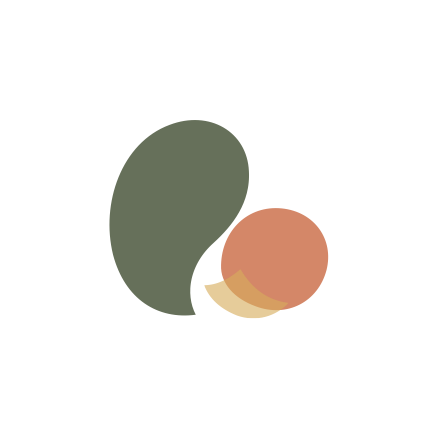
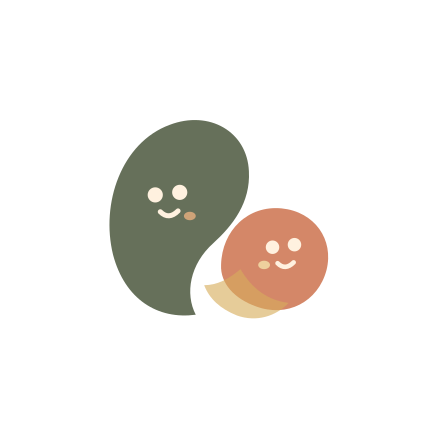
Make the Pebble Pair warm and cute

Changed region(s): [[0.331, 0.4213, 0.4514, 0.5116], [0.6019, 0.5417, 0.6921, 0.6319]]

diff --git a/mobile/src/components/pebble-pair.tsx b/mobile/src/components/pebble-pair.tsx
@@ -1,14 +1,48 @@
 import React, { useEffect, useRef } from 'react';
 import { Animated, Easing, Modal, StyleSheet, Text, View } from 'react-native';
+import Svg, { Circle, Ellipse, Path } from 'react-native-svg';
 import { colors, shadow, type } from '@/lib/theme';
 
+function PebbleFace({ width, height, looks, cheek }: { width: number; height: number; looks: 'left' | 'right'; cheek: string }) {
+  const eyeRadius = Math.max(1.55, width * .047);
+  const shift = looks === 'right' ? width * .03 : -width * .03;
+  const smileStart = width * .39 + shift;
+  const smileEnd = width * .62 + shift;
+  const smileY = height * .58;
+
+  return <Svg pointerEvents="none" width={width} height={height} style={styles.face}>
+    <Circle cx={width * .31 + shift} cy={height * .38} r={eyeRadius} fill={colors.expression} />
+    <Circle cx={width * .57 + shift} cy={height * .36} r={eyeRadius} fill={colors.expression} />
+    <Path
+      d={`M ${smileStart} ${smileY} Q ${width * .51 + shift} ${height * .68} ${smileEnd} ${smileY - height * .018}`}
+      stroke={colors.expression}
+      strokeWidth={Math.max(1.15, width * .028)}
+      strokeLinecap="round"
+      fill="none"
+    />
+    <Ellipse
+      cx={looks === 'right' ? width * .77 : width * .16}
+      cy={height * .58}
+      rx={width * .07}
+      ry={height * .038}
+      fill={cheek}
+      opacity={.82}
+    />
+  </Svg>;
+}
+
 export function PebblePair({ size = 52 }: { size?: number }) {
+  const largeWidth = size * .63;
+  const largeHeight = size * .64;
+  const smallWidth = size * .45;
+  const smallHeight = size * .46;
+
   return <View accessibilityElementsHidden importantForAccessibility="no-hide-descendants" style={[styles.pair, { width: size, height: size * .78 }]}>
-    <View style={[styles.large, { width: size * .62, height: size * .7, borderRadius: size * .31 }]}>
-      <View style={[styles.eye, { left: size * .19 }]} /><View style={[styles.eye, { left: size * .36 }]} />
+    <View style={[styles.large, { width: largeWidth, height: largeHeight, borderRadius: size * .32 }]}>
+      <PebbleFace width={largeWidth} height={largeHeight} looks="right" cheek={colors.apricot} />
     </View>
-    <View style={[styles.small, { width: size * .43, height: size * .5, borderRadius: size * .22 }]}>
-      <View style={[styles.eye, { left: size * .12 }]} /><View style={[styles.eye, { left: size * .25 }]} />
+    <View style={[styles.small, { width: smallWidth, height: smallHeight, borderRadius: size * .24 }]}>
+      <PebbleFace width={smallWidth} height={smallHeight} looks="left" cheek={colors.butter} />
     </View>
   </View>;
 }
@@ -30,8 +64,12 @@ export function MemorySavedCelebration({ visible, friendName }: { visible: boole
       <Animated.View style={[styles.halo, { opacity: arrival, transform: [{ scale: arrival.interpolate({ inputRange: [0, 1], outputRange: [.5, 1] }) }] }]} />
       <Animated.View style={[styles.celebration, { opacity: arrival, transform: [{ translateY: arrival.interpolate({ inputRange: [0, 1], outputRange: [28, 0] }) }, { scale: arrival.interpolate({ inputRange: [0, 1], outputRange: [.94, 1] }) }] }]}>
         <View style={styles.reunion}>
-          <Animated.View style={{ transform: [{ translateX: reunion.interpolate({ inputRange: [0, 1], outputRange: [-18, 0] }) }, { rotate: '-7deg' }] }}><View style={styles.celebrateLarge}><View style={[styles.eye, { left: 30 }]} /><View style={[styles.eye, { left: 52 }]} /></View></Animated.View>
-          <Animated.View style={{ marginLeft: -15, marginTop: 28, transform: [{ translateX: reunion.interpolate({ inputRange: [0, 1], outputRange: [54, 0] }) }, { translateY: reunion.interpolate({ inputRange: [0, 1], outputRange: [-42, 0] }) }, { rotate: '8deg' }] }}><View style={styles.celebrateSmall}><View style={[styles.eye, { left: 18 }]} /><View style={[styles.eye, { left: 32 }]} /></View></Animated.View>
+          <Animated.View style={{ transform: [{ translateX: reunion.interpolate({ inputRange: [0, 1], outputRange: [-18, 0] }) }, { rotate: '-7deg' }] }}>
+            <View style={styles.celebrateLarge}><PebbleFace width={96} height={94} looks="right" cheek={colors.apricot} /></View>
+          </Animated.View>
+          <Animated.View style={{ marginLeft: -15, marginTop: 30, transform: [{ translateX: reunion.interpolate({ inputRange: [0, 1], outputRange: [54, 0] }) }, { translateY: reunion.interpolate({ inputRange: [0, 1], outputRange: [-42, 0] }) }, { rotate: '8deg' }] }}>
+            <View style={styles.celebrateSmall}><PebbleFace width={66} height={64} looks="left" cheek={colors.butter} /></View>
+          </Animated.View>
         </View>
         <Text style={styles.savedTitle}>Memory tucked in.</Text>
         <Text style={styles.savedBody}>{friendName ? `The Pebble Pair brought this one home with ${friendName}.` : 'The Pebble Pair brought this one safely home.'}</Text>
@@ -44,13 +82,13 @@ const styles = StyleSheet.create({
   pair: { position: 'relative' },
   large: { position: 'absolute', left: 0, bottom: 0, overflow: 'hidden', backgroundColor: colors.moss, transform: [{ rotate: '-7deg' }] },
   small: { position: 'absolute', right: 0, bottom: 1, overflow: 'hidden', backgroundColor: colors.terracotta, transform: [{ rotate: '8deg' }] },
-  eye: { position: 'absolute', top: '41%', width: 3.5, height: 5, borderRadius: 3, backgroundColor: colors.white },
+  face: { position: 'absolute', left: 0, top: 0 },
   overlay: { flex: 1, alignItems: 'center', justifyContent: 'center', padding: 24, backgroundColor: 'rgba(57,66,56,.25)' },
   halo: { position: 'absolute', width: 330, height: 330, borderRadius: 165, backgroundColor: 'rgba(232,176,128,.32)' },
   celebration: { width: '100%', maxWidth: 380, alignItems: 'center', padding: 24, borderRadius: 26, backgroundColor: colors.white, ...shadow },
   reunion: { height: 118, flexDirection: 'row', alignItems: 'center', justifyContent: 'center' },
-  celebrateLarge: { width: 92, height: 106, overflow: 'hidden', borderRadius: 46, backgroundColor: colors.moss },
-  celebrateSmall: { width: 64, height: 74, overflow: 'hidden', borderRadius: 32, backgroundColor: colors.terracotta },
+  celebrateLarge: { width: 96, height: 94, overflow: 'hidden', borderRadius: 48, backgroundColor: colors.moss },
+  celebrateSmall: { width: 66, height: 64, overflow: 'hidden', borderRadius: 33, backgroundColor: colors.terracotta },
   savedTitle: { marginTop: 8, fontFamily: type.heavy, color: colors.mossDeep, fontSize: 22 },
   savedBody: { maxWidth: 270, marginTop: 6, fontFamily: type.regular, color: colors.muted, fontSize: 14, lineHeight: 20, textAlign: 'center' },
 });

diff --git a/src/app/globals.css b/src/app/globals.css
@@ -154,6 +154,7 @@
   --amika-ink-soft: #596052;
   --amika-paper: #f7eedf;
   --amika-white: #fffaf2;
+  --amika-expression: #fff1df;
   --amika-violet: #e8b080;
   --amika-violet-deep: #59674d;
   --amika-citrus: #d48768;
@@ -2611,9 +2612,10 @@ body:has(.app-rail) > main { margin-left: 220px; }
 .pebble-pair__large {
   left: 3%;
   bottom: 3%;
-  width: 64%;
-  height: 86%;
-  border-radius: 58% 42% 50% 46% / 66% 52% 48% 34%;
+  width: 65%;
+  height: 76%;
+  overflow: hidden;
+  border-radius: 54% 46% 48% 52% / 60% 54% 46% 40%;
   background: var(--pebble-large);
   transform: rotate(-7deg);
 }
@@ -2621,12 +2623,82 @@ body:has(.app-rail) > main { margin-left: 220px; }
 .pebble-pair__small {
   right: 2%;
   bottom: 3%;
-  width: 43%;
-  height: 54%;
-  border-radius: 52% 48% 46% 54% / 58% 44% 56% 42%;
+  width: 46%;
+  height: 55%;
+  overflow: hidden;
+  border-radius: 51% 49% 47% 53% / 55% 48% 52% 45%;
   background: var(--pebble-small);
   transform: rotate(8deg);
 }
+
+.pebble-pair__face {
+  position: absolute;
+  display: block;
+  color: var(--amika-expression);
+}
+
+.pebble-pair__face--large {
+  top: 34%;
+  left: 24%;
+  width: 48%;
+  height: 34%;
+}
+
+.pebble-pair__face--small {
+  top: 31%;
+  left: 18%;
+  width: 58%;
+  height: 37%;
+}
+
+.pebble-pair__eye {
+  position: absolute;
+  top: 0;
+  display: block;
+  width: 21%;
+  aspect-ratio: 1;
+  border-radius: 50%;
+  background: currentColor;
+}
+
+.pebble-pair__eye::after {
+  display: none;
+}
+
+.pebble-pair__eye--left { left: 5%; }
+.pebble-pair__eye--right { right: 5%; }
+
+.pebble-pair__smile {
+  position: absolute;
+  top: 52%;
+  left: 31%;
+  display: block;
+  width: 38%;
+  height: 23%;
+  border-bottom: max(1px, calc(var(--pair-width) * 0.022)) solid currentColor;
+  border-radius: 0 0 999px 999px;
+}
+
+.pebble-pair__cheek {
+  position: absolute;
+  right: -4%;
+  top: 50%;
+  display: block;
+  width: 18%;
+  aspect-ratio: 1.5;
+  border-radius: 50%;
+  background: var(--amika-apricot);
+  opacity: 0.7;
+}
+
+.pebble-pair__face--small .pebble-pair__cheek {
+  right: auto;
+  left: -2%;
+  background: var(--amika-butter);
+}
+
+.pebble-pair--xs .pebble-pair__smile,
+.pebble-pair--xs .pebble-pair__cheek { display: none; }
 
 .pebble-pair__echo { display: none; }
 .pebble-pair--cradle .pebble-pair__large { width: 72%; border-radius: 60% 36% 58% 44% / 64% 48% 52% 36%; }

diff --git a/src/app/opengraph-image.tsx b/src/app/opengraph-image.tsx
@@ -45,6 +45,10 @@ export default async function Image() {
               d="M22 95C7 59 22 17 55 9c30-7 51 16 43 44-5 18-18 27-29 38-8 7-10 15-7 24-18 2-33-5-40-20Z"
               fill="#66705A"
             />
+            <circle cx="47" cy="46" r="6" fill="#FFF1DF" />
+            <circle cx="66" cy="44" r="6" fill="#FFF1DF" />
+            <path d="M51 61q7 7 15-1" stroke="#FFF1DF" strokeWidth="3.5" strokeLinecap="round" fill="none" />
+            <ellipse cx="76" cy="63" rx="4.5" ry="3" fill="#E8B080" opacity=".82" />
           </svg>
           <svg
             width="120"
@@ -58,6 +62,10 @@ export default async function Image() {
               d="M20 67C20 37 43 15 73 18c28 3 45 27 38 54-7 28-34 42-61 32-19-7-31-20-30-37Z"
               fill="#D48768"
             />
+            <circle cx="55" cy="51" r="6" fill="#FFF1DF" />
+            <circle cx="75" cy="49" r="6" fill="#FFF1DF" />
+            <path d="M59 67q7 7 15-1" stroke="#FFF1DF" strokeWidth="3.5" strokeLinecap="round" fill="none" />
+            <ellipse cx="47" cy="69" rx="4.5" ry="3" fill="#F2DBA6" opacity=".88" />
           </svg>
         </div>
 

diff --git a/src/app/twitter-image.tsx b/src/app/twitter-image.tsx
@@ -45,6 +45,10 @@ export default async function Image() {
               d="M22 95C7 59 22 17 55 9c30-7 51 16 43 44-5 18-18 27-29 38-8 7-10 15-7 24-18 2-33-5-40-20Z"
               fill="#66705A"
             />
+            <circle cx="47" cy="46" r="6" fill="#FFF1DF" />
+            <circle cx="66" cy="44" r="6" fill="#FFF1DF" />
+            <path d="M51 61q7 7 15-1" stroke="#FFF1DF" strokeWidth="3.5" strokeLinecap="round" fill="none" />
+            <ellipse cx="76" cy="63" rx="4.5" ry="3" fill="#E8B080" opacity=".82" />
           </svg>
           <svg
             width="120"
@@ -58,6 +62,10 @@ export default async function Image() {
               d="M20 67C20 37 43 15 73 18c28 3 45 27 38 54-7 28-34 42-61 32-19-7-31-20-30-37Z"
               fill="#D48768"
             />
+            <circle cx="55" cy="51" r="6" fill="#FFF1DF" />
+            <circle cx="75" cy="49" r="6" fill="#FFF1DF" />
+            <path d="M59 67q7 7 15-1" stroke="#FFF1DF" strokeWidth="3.5" strokeLinecap="round" fill="none" />
+            <ellipse cx="47" cy="69" rx="4.5" ry="3" fill="#F2DBA6" opacity=".88" />
           </svg>
         </div>
 

diff --git a/src/components/pebble-pair.tsx b/src/components/pebble-pair.tsx
@@ -37,8 +37,22 @@ export function PebblePair({
       aria-hidden={label ? undefined : true}
       {...props}
     >
-      <span className="pebble-pair__large" />
-      <span className="pebble-pair__small" />
+      <span className="pebble-pair__large">
+        <span className="pebble-pair__face pebble-pair__face--large">
+          <span className="pebble-pair__eye pebble-pair__eye--left" />
+          <span className="pebble-pair__eye pebble-pair__eye--right" />
+          <span className="pebble-pair__smile" />
+          <span className="pebble-pair__cheek" />
+        </span>
+      </span>
+      <span className="pebble-pair__small">
+        <span className="pebble-pair__face pebble-pair__face--small">
+          <span className="pebble-pair__eye pebble-pair__eye--left" />
+          <span className="pebble-pair__eye pebble-pair__eye--right" />
+          <span className="pebble-pair__smile" />
+          <span className="pebble-pair__cheek" />
+        </span>
+      </span>
       <span className="pebble-pair__echo" />
     </span>
   );

diff --git a/mobile/src/lib/theme.ts b/mobile/src/lib/theme.ts
@@ -5,6 +5,7 @@ export const colors = {
   paper: '#F7EEDF',
   paperDeep: '#F1E4D2',
   white: '#FFFAF2',
+  expression: '#FFF1DF',
   moss: '#59674D',
   mossDeep: '#394238',
   apricot: '#E8B080',

diff --git a/DESIGN.md b/DESIGN.md
@@ -7,6 +7,7 @@ colors:
   pebble-moss: "#66705a"
   oat-cream: "#f7eedf"
   warm-white: "#fffaf2"
+  expression-cream: "#fff1df"
   cream-deep: "#f1e4d2"
   flax: "#dccfb9"
   baked-apricot: "#e8b080"
@@ -117,7 +118,7 @@ components:
 
 Apricot Moss turns recording an everyday moment into a calm shared ritual. The system is warm and fresh without reading as a scrapbook: oat-cream space quiets the canvas, baked apricot gathers attention around capture, and moss gives actions a steady, trustworthy center. Photography and the people in each memory carry the emotional detail; the interface stays soft, clear, and unhurried around them.
 
-The signature is the **Pebble Pair**, two abstract organic shapes that suggest closeness without becoming literal characters. Their asymmetry makes the brand friendly and recognizable, while their simple construction lets them work as a tiny wordmark companion, an app icon, a composer detail, or a short moment of delight after a save.
+The signature is the **Pebble Pair**, two abstract organic shapes that suggest closeness without becoming fully literal characters. Their asymmetry, tiny inward-looking expressions, and warm cheeks make the brand friendly and recognizable, while their simple construction lets them work as a tiny wordmark companion, an app icon, a composer detail, or a short moment of delight after a save.
 
 **Key Characteristics:**
 
@@ -157,6 +158,7 @@ The palette feels sun-warmed and grounded. Exact values in the frontmatter are n
 - **Flax:** Card edges, dividers, and quiet control boundaries.
 - **Muted Ink:** Metadata and secondary copy; it remains dark enough for body-sized text.
 - **Cocoa:** Occasional warm-dark supporting accent.
+- **Expression Cream:** Tiny Pebble Pair eyes and smiles; warmer than card white so the face stays soft rather than stark.
 
 **The Warm Center Rule.** Baked Apricot belongs to the memory-capture ritual and a few selected moments. It should not flood every card or action.
 
@@ -212,7 +214,7 @@ Depth is soft and ambient. Warm White cards sit on Oat Cream with flax edges and
 
 Amika uses broad, organic rounded rectangles. Controls are usually 14px, content cards 18px, compact mobile cards 20px, and signature surfaces such as the composer or save confirmation 24px. Pills remain useful for counts and privacy states, but they are not the default container shape.
 
-The Pebble Pair supplies the only intentionally irregular silhouette. Its two rounded shapes use asymmetrical radii and pose changes—lean, cradle, stack, peek, apart, rest, celebrate, and mark—to suggest relationship and mood without faces or limbs.
+The Pebble Pair supplies the only intentionally irregular silhouette. Its two rounded shapes use asymmetrical radii and pose changes—lean, cradle, stack, peek, apart, rest, celebrate, and mark—to suggest relationship and mood. Expressions stay minimal: round eyes look toward one another, tiny smiles stay soft, and warm cheeks keep the pair affectionate without adding limbs or detailed character acting.
 
 Borders are quiet: generally one pixel of Flax or a low-opacity Moss boundary. Focus is more explicit, using Terracotta with a visible two-pixel outline and offset.
 
@@ -256,7 +258,7 @@ The signature composer is progressively disclosed by the plus action rather than
 
 ### Pebble Pair and Save Confirmation
 
-Pebble Pair is an abstract relationship mark, not a talking mascot. Tiny poses may accompany the wordmark; medium poses may support empty states or the composer. After a successful save, the pair performs one restrained reunion: the moss pebble settles in, the clay pebble arcs home, and butter/terracotta/apricot echoes briefly appear. A non-blocking live-status card reads “Memory tucked in,” lasts 2.8 seconds, and sits above the mobile bottom navigation. Under `prefers-reduced-motion: reduce`, all entrance, reunion, halo, and lifecycle animations are removed while the confirmation remains understandable.
+Pebble Pair is an abstract relationship mark, not a talking mascot. Its round eyes look inward toward the other pebble rather than out at the viewer; a tiny smile and one warm cheek per pebble provide just enough emotion. Tiny poses may accompany the wordmark; medium poses may support empty states or the composer. After a successful save, the pair performs one restrained reunion: the moss pebble settles in, the clay pebble arcs home, and butter/terracotta/apricot echoes briefly appear. A non-blocking live-status card reads “Memory tucked in,” lasts 2.8 seconds, and sits above the mobile bottom navigation. Under `prefers-reduced-motion: reduce`, all entrance, reunion, halo, and lifecycle animations are removed while the confirmation remains understandable.
 
 **The Earned Motion Rule.** Mascot motion rewards a completed memory or clarifies state. It does not loop, interrupt input, or compete with photography.
 
@@ -268,7 +270,7 @@ Pebble Pair is an abstract relationship mark, not a talking mascot. Tiny poses m
 - **Do** let memory history lead while keeping one Moss plus action unmistakable and persistent.
 - **Do** show audience and privacy in plain language at the point of saving.
 - **Do** use real memory photos, friend avatars, initials, and honest empty states.
-- **Do** use Pebble Pair poses sparingly and preserve their abstract, faceless character.
+- **Do** use Pebble Pair poses sparingly and preserve their abstract character with minimal inward-looking expressions.
 - **Do** maintain 44px touch targets, visible focus, readable muted copy, semantic status announcements, and reduced-motion behavior.
 
 ### Don't
@@ -276,6 +278,6 @@ Pebble Pair is an abstract relationship mark, not a talking mascot. Tiny poses m
 - **Don't** reintroduce periwinkle, neon accents, hard graphite outlines, offset print shadows, or scrapbook ephemera.
 - **Don't** use gradients, glassmorphism, noisy texture, or decorative collage layers.
 - **Don't** turn every container into a rounded card or every label into a pill.
-- **Don't** make the Pebble Pair literal with eyes, mouths, limbs, speech bubbles, or constant animation.
+- **Don't** add limbs, speech bubbles, detailed facial acting, outward staring, character lore, or constant animation to the Pebble Pair.
 - **Don't** let archive, discovery, engagement, or planning mechanics outrank today's capture ritual.
 - **Don't** fabricate people, memories, testimonials, or usage claims.

diff --git a/.impeccable/surfaces/src-app-page-tsx.md b/.impeccable/surfaces/src-app-page-tsx.md
@@ -39,7 +39,7 @@ Mascot pose reference: `.impeccable/mocks/amika-pebble-pair-pose-system.png`
 | Friend avatars | Existing profile images plus initials fallback | Use quiet Flax rings and accessible link labels. |
 | Audience and privacy | Semantic selects, labels, and fieldset | Keep “Only me,” selected-friend sharing, and “Public” understandable at the save point; public remains opt-in. |
 | Reactions, replies, privacy, and navigation icons | Lucide icon library | Pair meaning-critical icons with text or accessible names; Terracotta may mark active social state. |
-| Pebble Pair identity | Semantic spans/CSS plus SVG brand assets | Use the two abstract, faceless shapes in small wordmark, composer, icon, social image, and earned-feedback roles. |
+| Pebble Pair identity | Semantic spans/CSS plus SVG brand assets | Use the two abstract, inward-looking shapes in small wordmark, composer, icon, social image, and earned-feedback roles; round eyes, tiny smiles, and one warm cheek keep them cute without becoming detailed characters. |
 | Save confirmation | React state and CSS motion | On successful POST, show “Memory tucked in” for 2.8 seconds with a short Pebble Pair reunion; do not block input or pointer events. |
 | Responsive motion safety | CSS media query | Remove page entrance, confirmation, halo, and Pebble Pair animation under `prefers-reduced-motion: reduce`. |
 
@@ -62,7 +62,7 @@ Mascot pose reference: `.impeccable/mocks/amika-pebble-pair-pose-system.png`
 ## Guardrails
 
 - Keep the page cream-led and photography-led. Apricot appears when capture is requested; Moss marks the persistent plus and decisive save actions.
-- Keep Pebble Pair abstract, cute, and sparingly used. No faces, dialogue, looping behavior, or character lore.
+- Keep Pebble Pair abstract, cute, and sparingly used. Expressions stay tiny and relational; no outward staring, limbs, dialogue, looping behavior, or character lore.
 - Use broad organic corners, quiet Flax boundaries, and soft warm shadows. Do not restore hard outlines or offset print shadows.
 - Avoid scrapbook collage, neon/periwinkle accents, gradients, glass, texture overlays, and arbitrary decorative marks.
 - Preserve existing authentication, friendship, privacy, notifications, messages, journal, and memory behavior.
